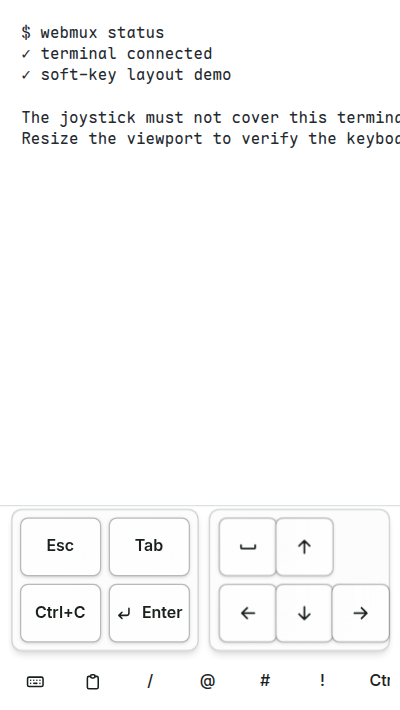
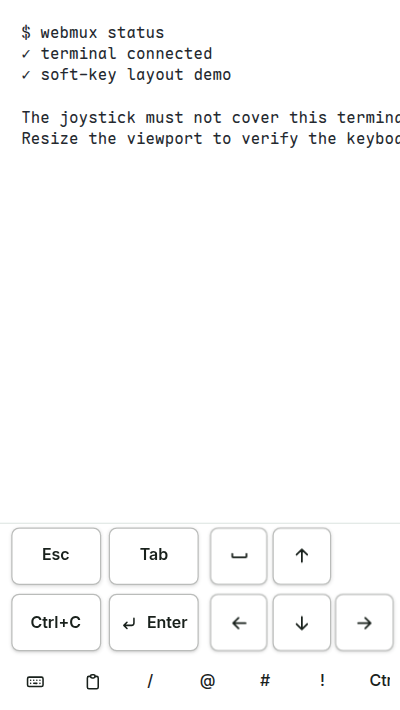
fix(web): flatten touch gamepad groups

Changed region(s): [[0.03, 0.7127, 0.87, 0.9296], [0.87, 0.8056, 0.99, 0.9296], [0.96, 0.7127, 0.99, 0.7437]]

diff --git a/web/src/components/TouchGamepad.svelte b/web/src/components/TouchGamepad.svelte
@@ -136,9 +136,7 @@
   role="toolbar"
   aria-label="终端摇杆"
 >
-  <div
-    class="border-foreground/20 bg-background/55 grid grid-cols-2 gap-1.5 rounded-lg border p-1.5 shadow-md backdrop-blur-md"
-  >
+  <div class="grid grid-cols-2 gap-1.5">
     <Button
       variant="hud"
       size="sm"
@@ -192,9 +190,7 @@
     </Button>
   </div>
 
-  <div
-    class="border-foreground/20 bg-background/55 grid grid-cols-3 gap-1.5 rounded-lg border p-1.5 shadow-md backdrop-blur-md"
-  >
+  <div class="grid grid-cols-3 gap-1.5">
     <div class="col-start-1 row-start-1">
       <Button
         variant="hud"

diff --git a/web/test/browser/TerminalViewport.test.ts b/web/test/browser/TerminalViewport.test.ts
@@ -44,6 +44,10 @@ test("touch gamepad renders only when enabled and controlling, supports slide-to
   expect(gamepad!.getBoundingClientRect().top).toBeGreaterThanOrEqual(
     terminalArea.getBoundingClientRect().bottom,
   );
+  for (const group of gamepad!.children) {
+    expect(getComputedStyle(group).borderTopWidth).toBe("0px");
+    expect(getComputedStyle(group).boxShadow).toBe("none");
+  }
   expect(
     [...document.querySelectorAll(".soft-row button")].some(
       (b) => b.textContent === "Esc",

diff --git a/docs/user-stories/terminal.md b/docs/user-stories/terminal.md
@@ -240,7 +240,7 @@
   - 可与 Tab、方向键、Home/End、翻页组成带 Shift 的序列，点按或锁定后对虚拟与实体键盘的后续输入同样应用 Shift；
   - 符号映射按 US 布局；
   - 终端菜单“显示”分组提供“软键盘摇杆模式”开关（保存在本机浏览器）：开启且当前客户端已接管控制、连接正常、进程未退出时，在软键栏内的独立一行显示摇杆（左侧 Esc、Tab、Ctrl+C 与回车 `Enter`，右侧左上角空格与十字方向键）；摇杆随软键栏显示或隐藏，观察模式或未接管时不显示；
-  - 摇杆的方向键支持按住连发与不抬手滑动切向；摇杆激活时底部软键栏自动隐藏重复的 Esc、Tab、`↵`、方向键与 Ctrl+C（保留 Ctrl/Alt/Shift）；摇杆占用软键栏布局空间并自然压缩终端区域，不覆盖或拦截终端，终端仍可单指滑动滚动与长按选词。
+  - 摇杆的方向键支持按住连发与不抬手滑动切向；摇杆激活时底部软键栏自动隐藏重复的 Esc、Tab、`↵`、方向键与 Ctrl+C（保留 Ctrl/Alt/Shift）；摇杆按键组直接沿用软键栏表面，不增加外层边框、背景或阴影；摇杆占用软键栏布局空间并自然压缩终端区域，不覆盖或拦截终端，终端仍可单指滑动滚动与长按选词。
 - **US-H02 主动开合键盘**：作为触摸设备使用者，我希望自己决定何时打开虚拟键盘，以便阅读和点选时保留屏幕空间。
   验收要点：
   - 只有点击键盘按钮才主动唤起或收起；

diff --git a/docs/user-stories/verification-log-2026-11-shell.md b/docs/user-stories/verification-log-2026-11-shell.md
@@ -163,7 +163,7 @@
 - 已运行：本机实测 `claude 2.1.316`、`codex 0.166.0`、`opencode 2.1.4`、`omp 18.17.0`、`agy 1.5.2` 的 `--`、`-` 前缀、多行与子命令参数行为；`go test -race` 覆盖 `internal/agentprofile/...`、`internal/hybrid/...`、`internal/workspace/...`；`make docs-check`、`make go-lint`；
 - 限制：本机未安装 `qoder` 与 `qodercn`，二者保持 `InitialPrompt == nil` 走 `SendWhenReady` 旧路径，待实测后再迁移。
 
-本次局部核对（2026-11-09，软键盘摇杆布局）：将摇杆从终端内的绝对定位浮层迁入软键栏独立行，由栏体布局自然压缩终端区域，并随软键栏及控制状态显隐；移除终端触摸淡化与悬浮穿透逻辑，保留按键映射、方向连发和滑动切向。
+本次局部核对（2026-11-09，软键盘摇杆布局）：将摇杆从终端内的绝对定位浮层迁入软键栏独立行，由栏体布局自然压缩终端区域，并随软键栏及控制状态显隐；移除终端触摸淡化、悬浮穿透逻辑及按键组外层边框、背景与阴影，按键组直接沿用软键栏表面，保留按键映射、方向连发和滑动切向。
 
 - 更新的故事：US-H01；索引与故事数量不变。
 - 已运行：`make check`；`TerminalViewport`、`SoftKeys` Vitest 浏览器组件测试（9 项）；Playwright `softkeys.spec.ts`（9 项通过、9 项按平台跳过），覆盖移动端栏内几何关系、无横向溢出、控制切换、按键输入与桌面强制栏显隐联动。
